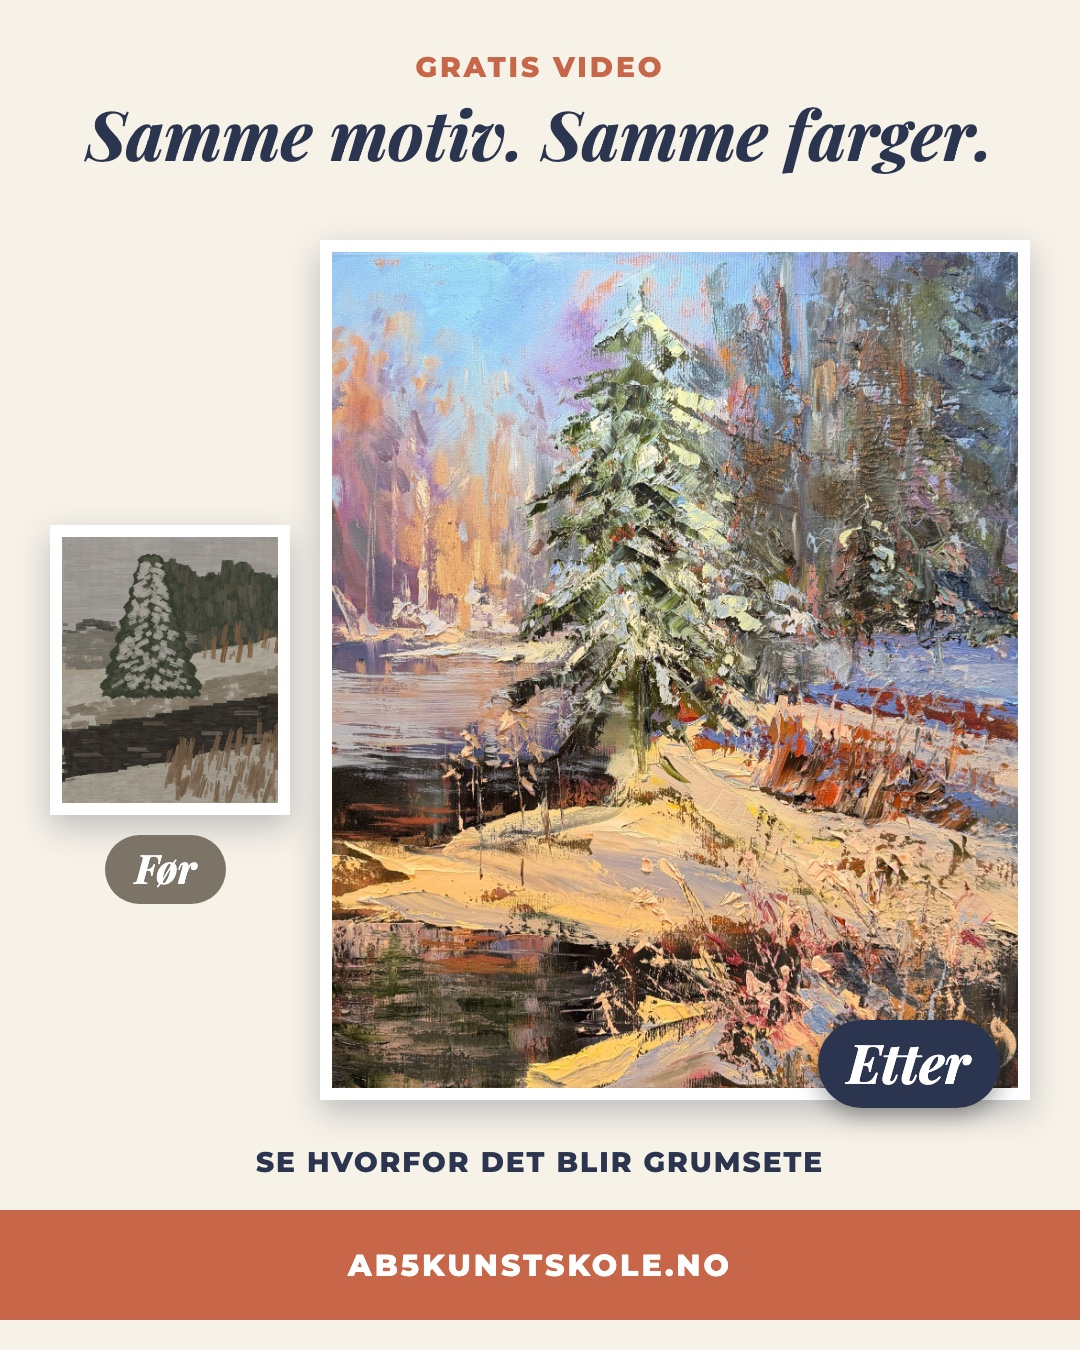
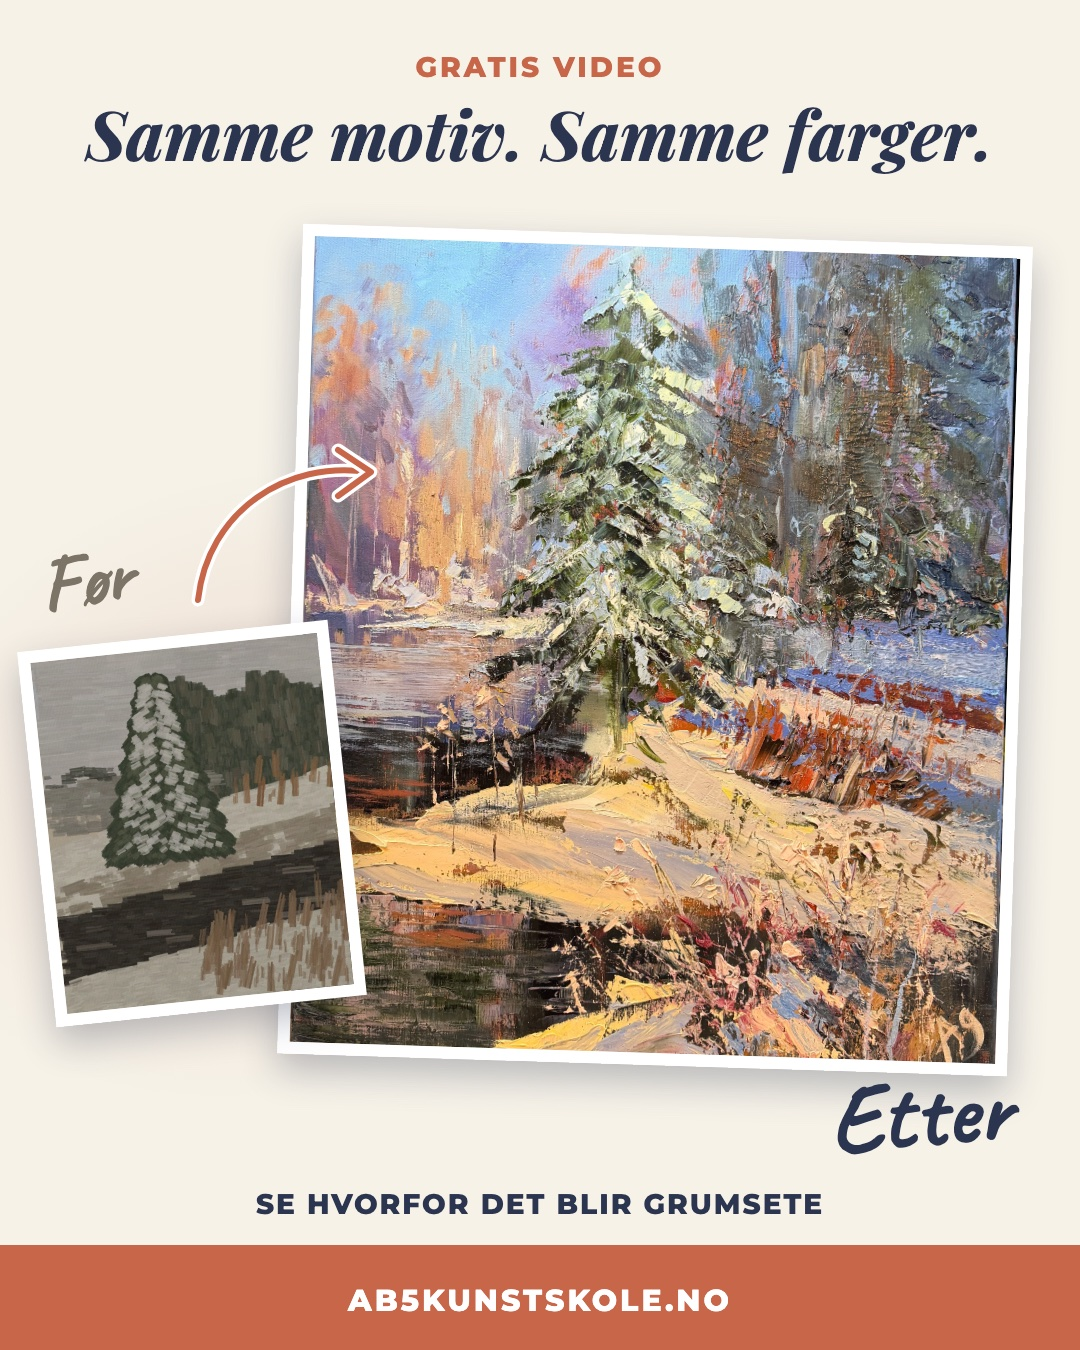
feat: new P1b layout

diff --git a/index.html b/index.html
@@ -342,13 +342,13 @@ hr{display:none}
 <h2 id="p1b">P1b: Før/Etter, weak painting and Agita's painting</h2>
 <div class="gallery"><a href="images/p1b-grumsete-feed.jpg" target="_blank"><img class="ad" src="images/p1b-grumsete-feed.jpg" alt="P1b feed"></a><a href="images/p1b-grumsete-story.jpg" target="_blank"><img class="ad" src="images/p1b-grumsete-story.jpg" alt="P1b story"></a></div>
 
-<p><strong>Format:</strong> the Etter painting large and the Før painting small beside it (about a third of the width), so the result is the hero. 4:5 feed and 9:16 story. Test against P1.
+<p><strong>Format:</strong> the Etter painting large and slightly tilted, the Før painting smaller and tilted the other way against its lower-left edge, so the result is the hero. 4:5 feed and 9:16 story. Test against P1.
 <strong>Audience:</strong> cold.</p>
 <h3>Image brief</h3>
 <ul>
 <li>Headline: <strong>GRATIS VIDEO</strong> / <strong>Samme motiv. Samme farger.</strong></li>
-<li>Right, large: Agita's painting in a white frame, navy tag «Etter» on its lower right corner.</li>
-<li>Left, small (about a third of the width), vertically centred: a drawn hobby painting of the same scene (<code>source/amateur-painting.png</code>) with a grey tag «Før». The layout follows the photo, but the sky is over-blended and dull, the forest is a flat dark wall as dark as the tree, the snow is grey-brown, the river is muddy and every brush mark has the same size. It is an illustration, not a real student painting.</li>
+<li>Right, large: Agita's painting in a white frame, tilted slightly, handwritten «Etter» under its lower right corner.</li>
+<li>Left, smaller (about 40% of the width), tilted the other way and overlapping the big frame's lower-left edge, handwritten «Før» above it and a painted terracotta arrow to the big painting: a drawn hobby painting of the same scene (<code>source/amateur-painting.png</code>) The layout follows the photo, but the sky is over-blended and dull, the forest is a flat dark wall as dark as the tree, the snow is grey-brown, the river is muddy and every brush mark has the same size. It is an illustration, not a real student painting.</li>
 <li>Under: <strong>SE HVORFOR DET BLIR GRUMSETE</strong> and the <strong>AB5KUNSTSKOLE.NO</strong> bar.</li>
 </ul>
 <h3>Primary text</h3>
